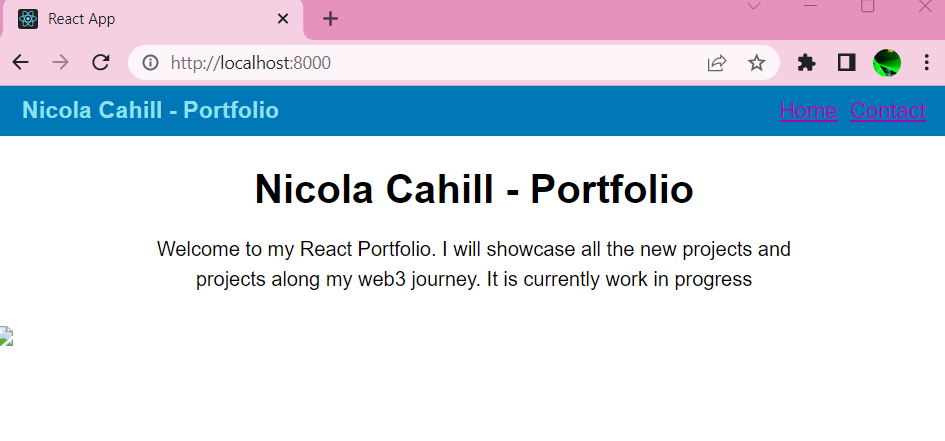
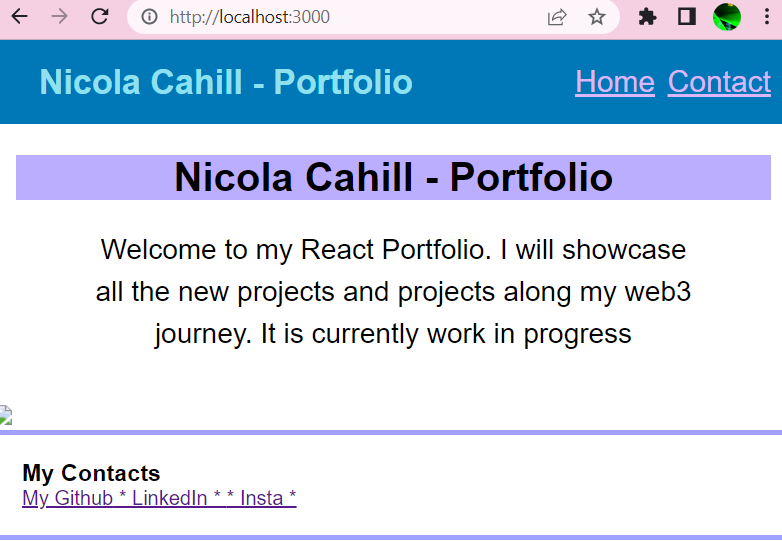
readme ss and url

diff --git a/README.md b/README.md
@@ -1,7 +1,8 @@
 # My REACT Portfolio
 My REACT Portfolio 
-For Challenge 14
+https://bibbleboop.github.io/my-react-portfolio/
 <img src="./images/readme ss.png">
+<img src="./images/contactme ss.png">
 As a FrontENd Web Dev Student this portfolio showcases what I have learned during this course as as well as showing all software used and previous work history and experience
 
 ## Table of Contents
